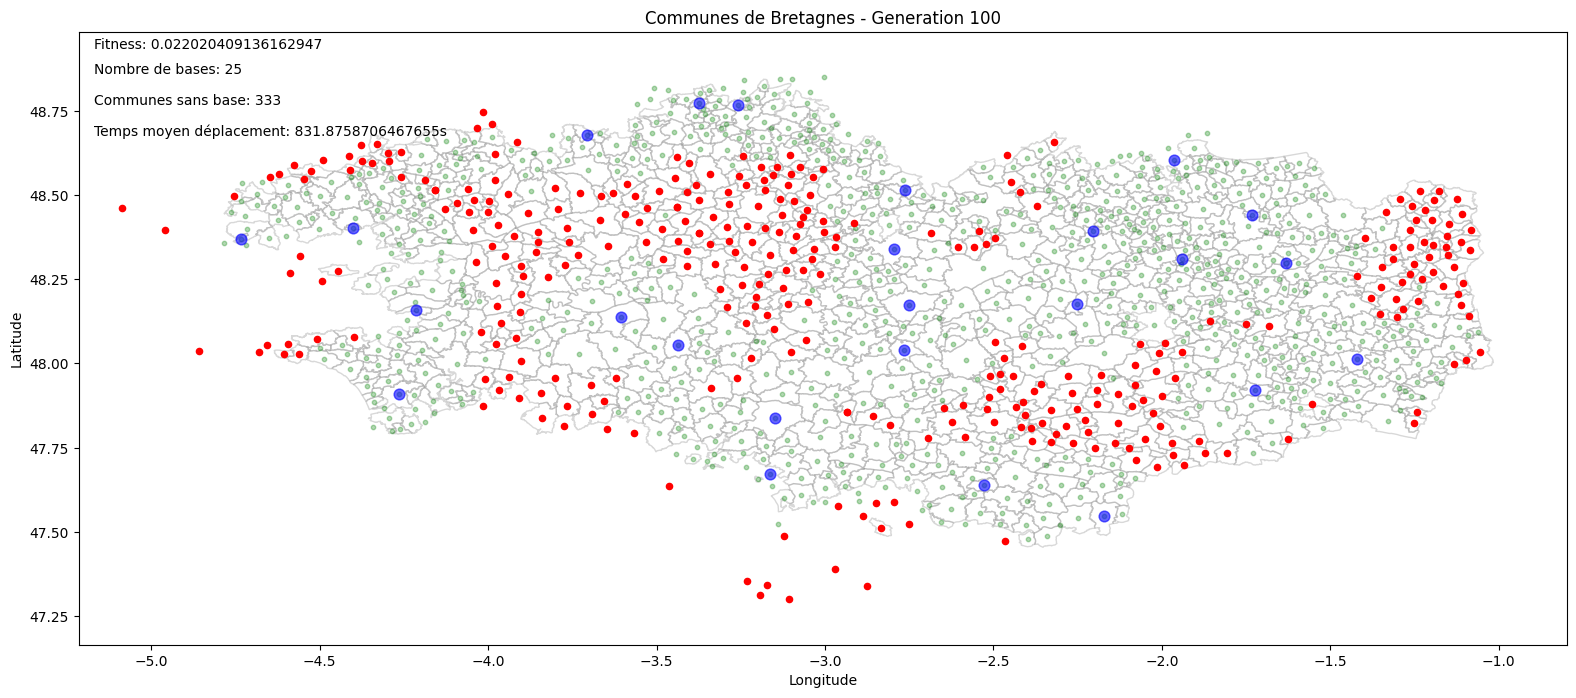
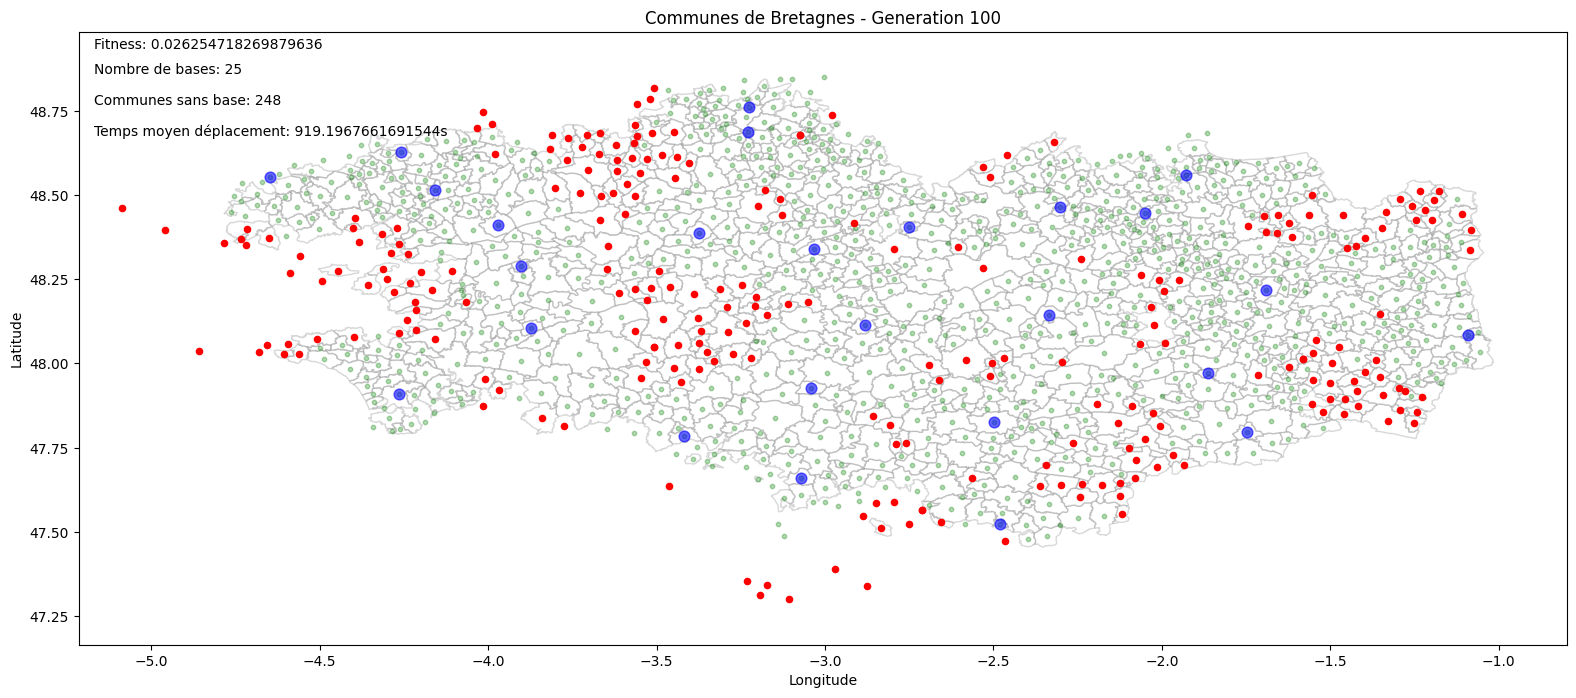
feat: add img

diff --git a/src/genetic.py b/src/genetic.py
@@ -7,7 +7,12 @@ import utils
 # format for a solution
 class Individual:
 
-    def __init__(self, nodes, edges, values, base_count, genes=None):
+    def __init__(self,
+                 nodes: list,
+                 edges: dict[str, dict[str, int]],
+                 values: dict,
+                 base_count: int,
+                 genes=None):
         self.nodes = nodes
         self.edges = edges
         self.values = values
@@ -65,8 +70,21 @@ class Individual:
         new_genes = set()
         for gene in (self.genes):
             new_gene = gene
-            if random.random() < probability:
-                new_gene = random.randint(0, len(self.nodes) - 1)
+            current_probability = probability
+            for other in self.edges[gene]:
+                if other in self.genes:
+                    current_probability *= 5
+
+            while random.random() < min(0.9, current_probability):
+                # gene move to a random neighbour (in self.edges[gene])
+                random_neighbour = random.choice(
+                    list(self.edges[self.nodes[gene]].keys()))
+                new_gene = self.nodes.index(random_neighbour)
+
+                for other in self.edges[gene]:
+                    if other in self.genes:
+                        current_probability = 7 * probability
+
             new_genes.add(new_gene)
         while len(new_genes) < self.base_count:
             new_genes.add(random.randint(0, len(self.nodes) - 1))
@@ -125,28 +143,28 @@ class Population:
                 self.best_fitness = individual.fitness
                 self.best_individual = individual
 
-
     def call_crossover(self):
         new_individuals = [self.best_individual]
         # select two parents but more likely to select the best ones
-        for _ in range(self.pop_size-1):
+        for _ in range(self.pop_size - 1):
             parent1 = self.select_parent()
             parent2 = self.select_parent()
             while parent1 == parent2:
                 parent2 = self.select_parent()
             new_individuals.append(parent1.crossover(parent2))
-    
+
     def select_parent(self):
         # select randomly an individual but more likely to select the best ones
-        fitness_sum = sum([ind.fitness for ind in self.individuals])
+        # sort individuals by fitness
+        self.individuals.sort(key=lambda x: x.fitness, reverse=True)
+        half = self.pop_size // 2
+        fitness_sum = sum([ind.fitness for ind in self.individuals[:half]])
         pick = random.uniform(0, fitness_sum)
         current = 0
-        for ind in self.individuals:
+        for ind in self.individuals[:half]:
             current += ind.fitness
             if current > pick:
                 return ind
-        
-
 
     def mutation(self, probability):
         for individual in self.individuals:

diff --git a/src/main.py b/src/main.py
@@ -23,7 +23,9 @@ base = 5
 base = 100
 base = 75
 base = 25
-population = Population(30,
+base = 30
+base = 40
+population = Population(50,
                         nodes,
                         edges,
                         values,
@@ -50,5 +52,6 @@ for i in range(1000):
                           fig,
                           figax,
                           gdf,
-                          pause=2,
+                          pause=0.01,
                           base=base)
+
